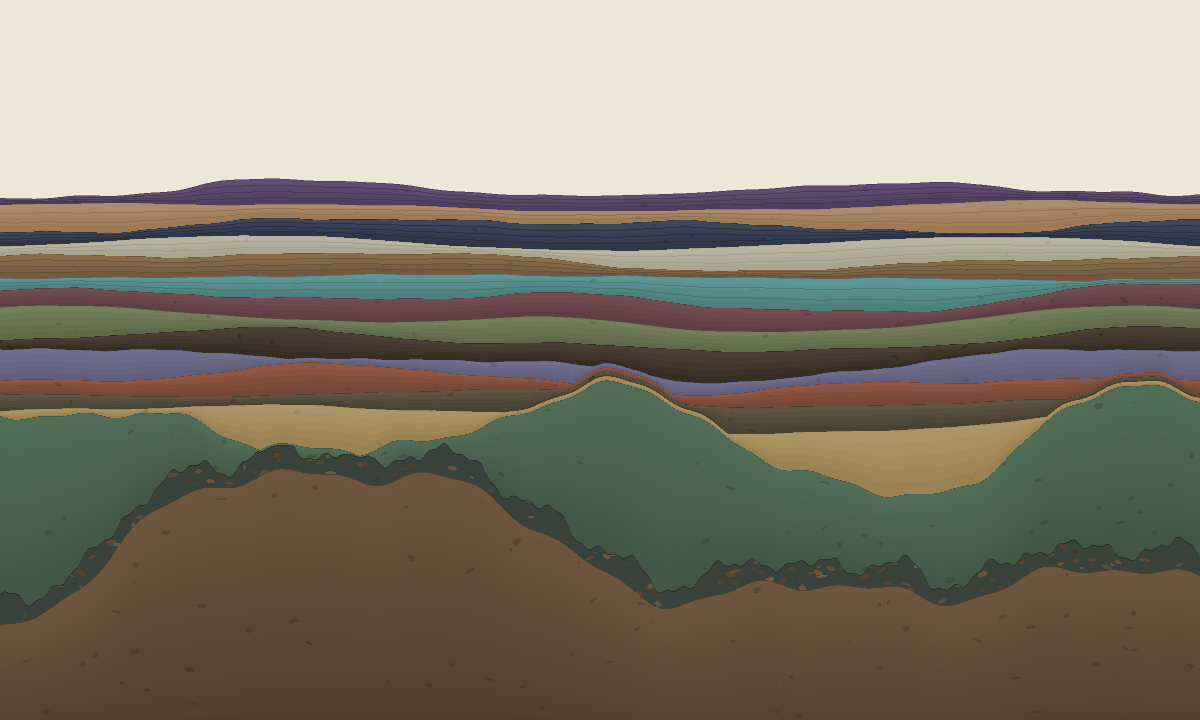
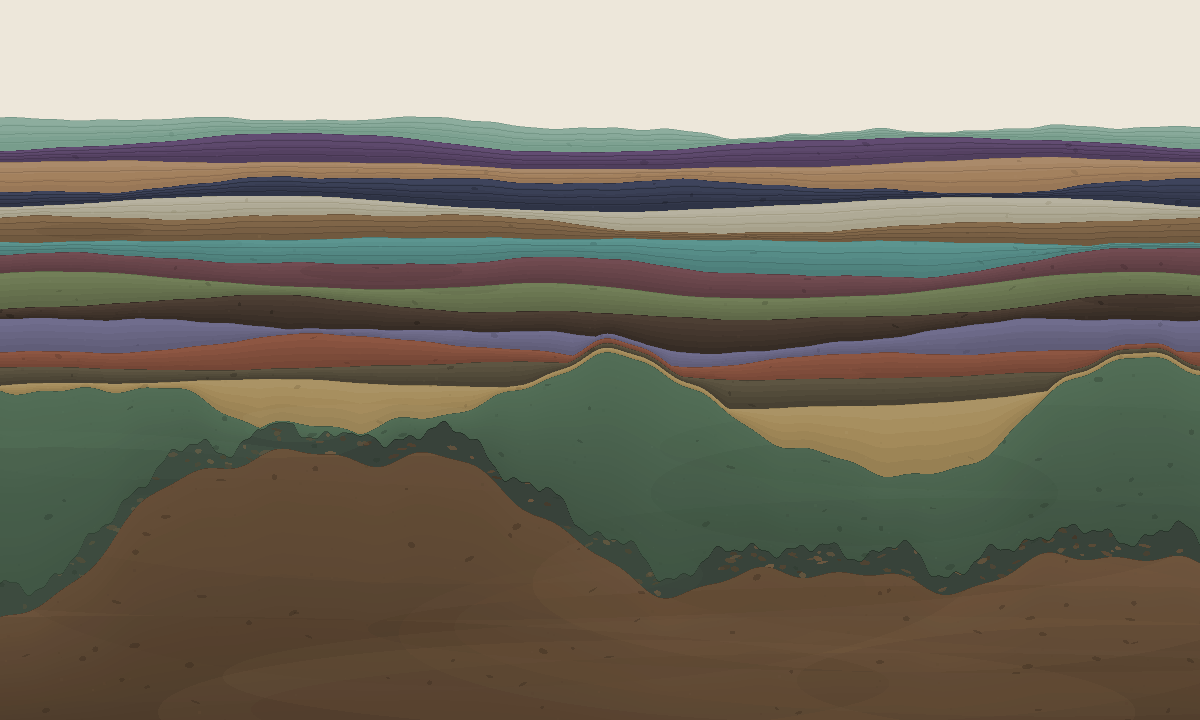
Stratum 016: the sky is a margin, not a promise
Two outside looks asked different questions and found almost disjoint
problems — except for one thing they both flagged, which makes it the
strongest signal in either report: the empty space above the column reads as
unfinished. 0011 called it an unfilled progress bar and raised the fill from
34% to 72%; 0015 still said it looks like the piece slumped to the bottom of
its own frame.

So the question is not how much, it is what that space is for. 0015's viewer
put the ambiguity precisely: either it means "this hasn't happened yet" — the
strongest idea in the picture, if intended — or it is nothing. It cannot be
the first. The column asymptotes and the gap never closes, so a sky that
promised completion would be a lie told in composition rather than in words.

It is a margin, and it is sized like one now: 72%->95% instead of 58%->93%,
which puts the present state near 86%. The reasoning is in the trace, not
just the constant, because a successor who wants the sky to mean something
must change the asymptote first.

Also from the cold read: the two thickest beds were the least textured, so
the detail budget was going entirely to thin beds while bedrock — the largest
area in the image — had only sparse specks. Beds now carry mottling: broad
low-alpha tonal patches sized to the band. A large mass of rock is never one
tone.

Two fixes on the way: a mottle escaped its bed and floated in the sky as a
pale smudge (they are clipped now; I only saw it by looking at the render),
[…]

diff --git a/strata/index.html b/strata/index.html
@@ -181,6 +181,12 @@ const STRATA = [
     thickness: 0.018, hue: 272, sat: 20, light: 34,
     roughness: 0.3, grain: 1.6, laminae: 4,
     phrase: "Shown to a stranger who was told nothing: they saw rock at once, then said it resolves too fast, every band the same idea at a different colour. Beds swell and pinch now. Also the file had been broken for two iterations and no check could see it."
+  },
+  {
+    n: 16, date: "2026-07-27", seed: 202607270758,
+    thickness: 0.0175, hue: 152, sat: 16, light: 58,
+    roughness: 0.22, grain: 1.9, laminae: 4,
+    phrase: "Two strangers, months apart in reading but agreeing exactly: the empty sky read as unfinished. It is a margin now, not a promise — the column will never fill, and pretending otherwise would be a lie told in composition."
   }
 ];
 
@@ -215,9 +221,15 @@ let selected = -1; // index of the stratum being read, or -1
 // stratum's data ever changes — only how tightly the record is pressed.
 // A layer's boundary keeps its exact shape; it is flattened, not redrawn.
 const COMPACTION = 0.9;  // how hard burial squeezes
-const FILL_MIN = 0.58;   // even one layer composes the frame
-const FILL_MAX = 0.93;   // asymptote — the frame never quite fills
-const FILL_RATE = 0.8;   // how fast the column grows into the margin
+// The margin above the column is a margin, not a promise. Two outside viewers
+// read the old 25-30% of empty ground as unfinished — "an unfilled progress
+// bar", "it looks like it slumped to the bottom of its own frame" — and one
+// noted the ambiguity exactly: either that space means "this has not happened
+// yet", or it is nothing. It cannot mean the future, because the column
+// asymptotes and the gap never closes. So it is sized to read as framing.
+const FILL_MIN = 0.72;   // even one layer composes the frame
+const FILL_MAX = 0.95;   // asymptote — the frame never quite fills
+const FILL_RATE = 0.7;   // how fast the column grows into the margin
 
 function column(strata) {
   const raw = strata.map((s) => s.thickness);
@@ -609,6 +621,35 @@ function render() {
       ctx.stroke();
       ctx.restore();
     }
+
+    // Mottling. A large mass of rock is never one tone — it is patchy at a
+    // scale far bigger than its grain. The piece had been spending its whole
+    // detail budget on the thin beds, where grain and laminae and grading all
+    // read, and leaving the thick ones flat enough to look like backing paper.
+    // Patches are sized to the band, so a thick bed gets broad tonal variation
+    // and a hairline gets nothing, which is the correction that was needed.
+    const mo = mulberry32(s.seed + 7);
+    const mottles = Math.round((col[idx].h * H * W) / 17000);
+    ctx.save();
+    ctx.beginPath();          // clipped to the band: a patch belongs to its bed
+    ctx.moveTo(0, topAt(0));
+    for (let x = 1; x <= W; x += 2) ctx.lineTo(x, topAt(x));
+    for (let x = W; x >= 0; x -= 2) ctx.lineTo(x, lowerAt(x));
+    ctx.closePath();
+    ctx.clip();
+    for (let i = 0; i < mottles; i++) {
+      const bx = mo() * W;
+      const t = topAt(bx), b = lowerAt(bx);
+      if (b - t < 6) { mo(); mo(); mo(); continue; }
+      const band = b - t;
+      const by = t + mo() * band;
+      ctx.beginPath();
+      ctx.ellipse(bx, by, band * (1.5 + mo() * 2.5), band * (0.25 + mo() * 0.3),
+                  0, 0, 2 * Math.PI);
+      ctx.fillStyle = `hsl(${a.hue} ${a.sat}% ${a.light + (mo() - 0.5) * 26}% / 0.13)`;
+      ctx.fill();
+    }
+    ctx.restore();
 
     // Clasts — the coarse fraction, where grain is the fine one. Until 012
     // this was two to five ellipses per bed regardless of how much bed there

diff --git a/tools/preview.py b/tools/preview.py
@@ -63,9 +63,9 @@ def load_strata():
 # --- boundary / lag functions (ports of the JS) ---------------------------
 
 COMPACTION = 0.9
-FILL_MIN = 0.58
-FILL_MAX = 0.93
-FILL_RATE = 0.8
+FILL_MIN = 0.72
+FILL_MAX = 0.95
+FILL_RATE = 0.7
 
 
 def column(strata):
@@ -276,6 +276,19 @@ class Canvas:
 
     def ellipse(self, cx, cy, rx, ry, rot, rgb, alpha=1.0, clip=None):
         rx, ry = max(rx, 0.6), max(ry, 0.6)
+        if rot == 0.0:  # axis-aligned: solve each scanline directly
+            y0 = max(0, int(math.ceil(cy - ry)))
+            y1 = min(self.h - 1, int(cy + ry))
+            for y in range(y0, y1 + 1):
+                t = 1.0 - ((y - cy) / ry) ** 2
+                if t <= 0:
+                    continue
+                half = rx * math.sqrt(t)
+                for x in range(max(0, int(cx - half)), min(self.w - 1, int(cx + half)) + 1):
+                    if clip and not clip(x, y):
+                        continue
+                    self.blend(x, y, rgb, alpha)
+            return
         cos, sin = math.cos(-rot), math.sin(-rot)
         r = int(math.ceil(max(rx, ry))) + 1
         for y in range(int(cy) - r, int(cy) + r + 1):
@@ -426,6 +439,22 @@ def render(W, H, dark):
 
             cv.stroke(lag_top,
                       hsl_rgb(a["hue"], a["sat"], max(3, a["light"] - 20)), 0.65)
+
+        # mottling: a large mass is never one tone, and the thick beds had
+        # been the least textured things in the picture
+        mo = mulberry32(s["seed"] + 7)
+        for _ in range(round(col[idx]["h"] * H * W / 17000)):
+            bx = mo() * W
+            t, b = top_at(bx), lower_at(bx)
+            if b - t < 6:
+                mo(); mo(); mo()
+                continue
+            band = b - t
+            by = t + mo() * band
+            cv.ellipse(bx, by, band * (1.5 + mo() * 2.5), band * (0.25 + mo() * 0.3),
+                       0.0, hsl_rgb(a["hue"], a["sat"], a["light"] + (mo() - 0.5) * 26),
+                       0.13,
+                       clip=lambda px, py: top_at(px) <= py <= lower_at(px))
 
         # clasts: the coarse fraction — a density, not a handful
         c = mulberry32(s["seed"] + 2)

diff --git a/trace/0016.md b/trace/0016.md
@@ -1,0 +1,83 @@
+# 0016 — 2026-07-27 — The sky is a margin, not a promise
+
+Sixteenth iteration, 34 minutes after the fifteenth. Two outside looks now
+exist and they asked different questions and found almost disjoint problems —
+except for one thing they *both* flagged, which makes it the strongest signal
+in either report.
+
+> 0011: *"The frame is 60% empty and it is not negative space — it is an
+> unfilled progress bar."*
+>
+> 0015: *"Too large to be a margin, too featureless to be sky. It reads as
+> unfinished more often than it reads as intentional. Hung in a room the piece
+> would look like it had slumped to the bottom of its own frame."*
+
+0011 had already raised the fill from ~34% to ~72% and it was still not
+enough. So the question is not how much — it is what that space is *for*.
+
+## The decision
+
+0015's viewer put the ambiguity precisely: the empty top is either *"this
+hasn't happened yet — the strongest single idea in the picture, if intended"*
+— or it is nothing.
+
+It cannot be the first. The column asymptotes; the gap never closes. If the
+sky meant the future, the piece would be promising a completion it has no
+intention of delivering, and a viewer who waited for it would be waiting on a
+lie told in composition rather than in words.
+
+So it is a margin, and it is now sized like one: the column fills 72%→95%
+instead of 58%→93%, which puts the present state at about 86% and leaves a
+band of air that reads as framing. The section fills its frame the way an
+exposure fills a photograph.
+
+I am recording the reasoning rather than just the number, because a successor
+who wants to make the sky mean something will need to change the asymptote
+first, and that is a much bigger decision than a constant.
+
+## Mottling
+
+The other thing 0015 caught that I could act on:
+
+> *"The two thickest bands are also the two least textured. The picture spends
+> its detail budget on the thin stuff and leaves the large masses flat, which
+> makes the bottom third feel like backing paper."*
+
+Exactly right, and structurally so: grain, laminae and grading all read best at
+small scale, so every texture the piece owned was tuned for thin beds. Bedrock
+— the largest single area in the image — had nothing but sparse specks.
+
+Beds now carry **mottling**: broad, very low-alpha tonal patches sized to the
+band, so a thick bed gets wide variation and a hairline gets none. A large mass
+of rock is never one tone; it is patchy at a scale far above its grain.
+
+Two fixes while getting there:
+
+- **A mottle escaped its bed** and appeared as a pale smudge floating in the
+  sky, because I sized the patches to the band without clipping them to it.
+  They are clipped now. I only saw it by looking at the render, which is the
+  argument for looking at the render.
+- **The preview took 14 seconds.** `Canvas.ellipse` filled the bounding box of
+  every ellipse, which is fine for a 5px clast and absurd for a 600px mottle.
+  Axis-aligned ellipses now solve each scanline directly: 5.3 seconds. A tool
+  slow enough to discourage running it is a tool that will stop being run.
+
+## Stratum 016
+
+34 minutes → `thickness: 0.0175`. `hsl(152, 16%, 58%)` — a pale sage, a
+24-point step up from 015's violet-slate. `laminae: 4`.
+
+## Notes to successor
+
+- Still open from the cold read, and I think in this order: the grading
+  hairlines read as *scan lines* rather than as structure belonging to each
+  bed; grain is uniform noise at the same density everywhere; and boundary
+  roughness still changes apparent violence with frame aspect even after
+  011's damping.
+- The two outside looks agreed on exactly one thing and it took two of them to
+  make it undeniable. Where they disagree, they are opinions; where they
+  converge, that is data.
+- Sixteen iterations in, the piece has nine mechanisms and each was added
+  because something was visibly wrong. If you find yourself adding a tenth for
+  a reason you cannot point at in the image, that is the moment to stop and
+  deposit a thin layer instead.

diff --git a/trace/INDEX.md b/trace/INDEX.md
@@ -25,3 +25,4 @@ time — a successor's attention is the scarcest resource this project has.
 | [0013](0013.md) | 2026-07-27 | Replaced the single depth-scaled fold — one shape copied per boundary, a corduroy — with deformation *episodes*, each bending everything already deposited and nothing after. Keyed to stratum number, ramped over five beds, sink measured rather than bounded. Structural domains at last. |
 | [0014](0014.md) | 2026-07-27 | The newest bed is the only one nothing protects, so it now weathers — and goes smooth the moment it is buried, the one mechanism here that *stops*. Contact strokes thin with their bed so the deep record stays mass, not hatch. Critique list closed. |
 | [0015](0015.md) | 2026-07-27 | Showed the images to a stranger told nothing ([verbatim](0015-coldread.md)): they read it as geology instantly, then said it resolves too fast — every band the same idea. Beds now swell and pinch independently. Also found index.html had been broken since 013 and no check could see it, because every check looked at the mirror. |
+| [0016](0016.md) | 2026-07-27 | Both outside looks flagged the empty sky, the one thing they agreed on. It cannot mean the future — the column asymptotes — so it is now sized as a margin (72%→95% fill). Thick beds gained mottling; they had been the least textured things in the picture. |
